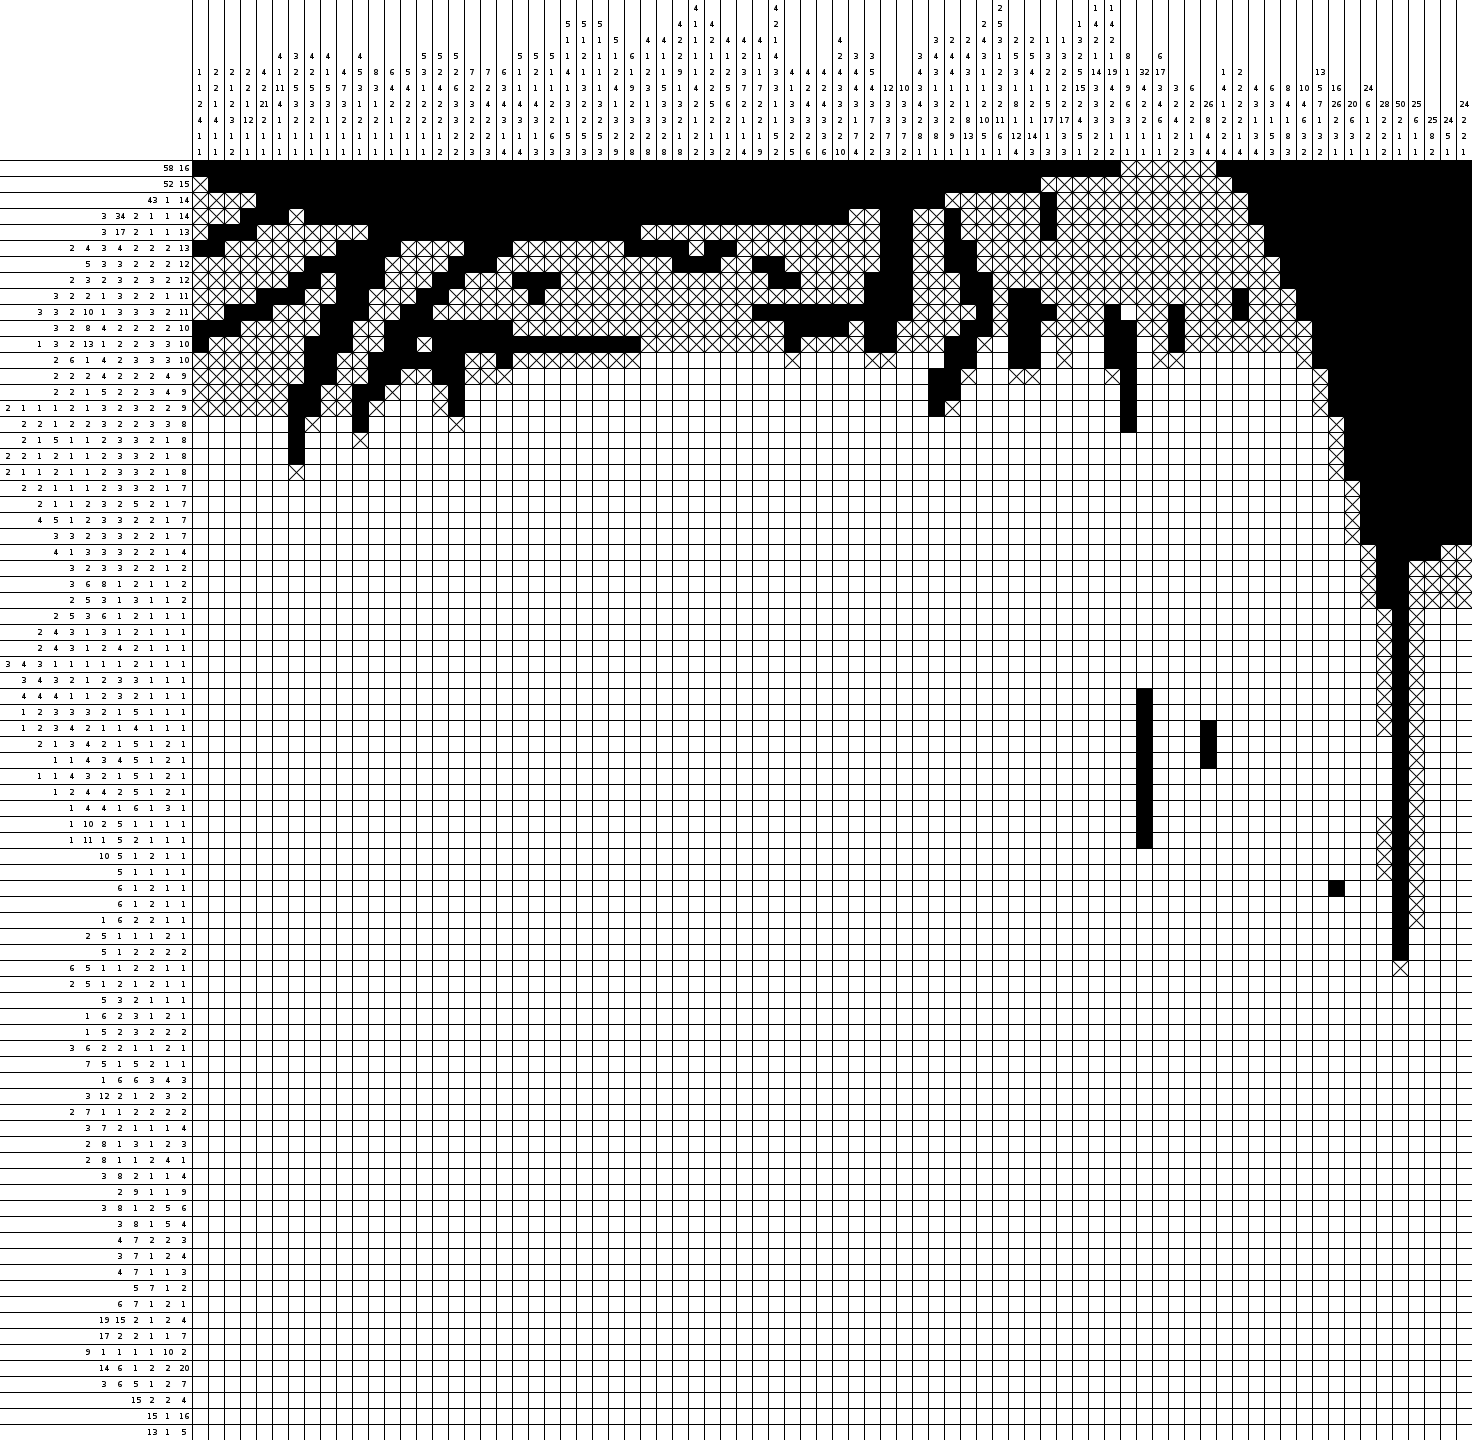
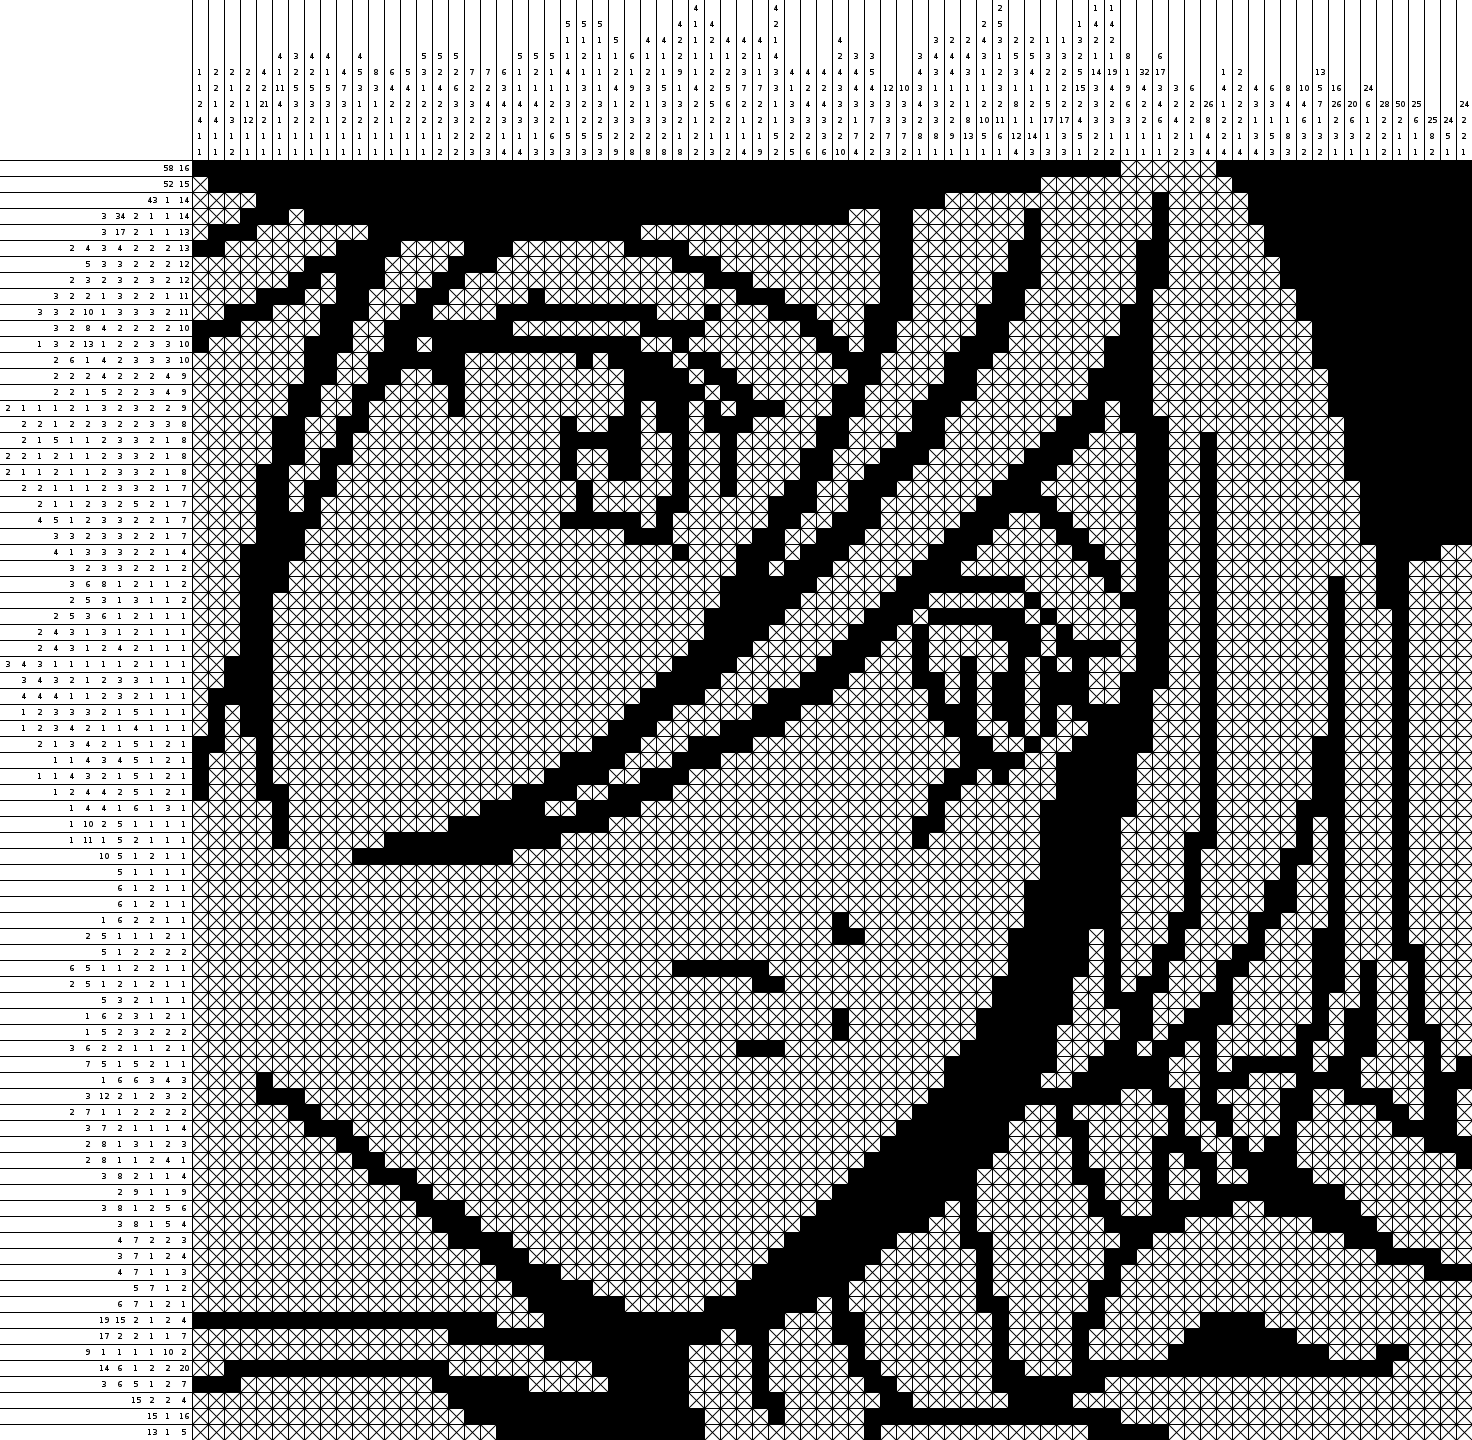
vladilena milize now solved with contradiction method. however, this is very slow

Changed region(s): [[0.125, 0.125, 1.0, 1.0]]

diff --git a/src/main/java/fr/poulpogaz/nonogramssolver/Nonogram.java b/src/main/java/fr/poulpogaz/nonogramssolver/Nonogram.java
@@ -145,20 +145,23 @@ public class Nonogram {
     public boolean solveRecursive() {
         Stack<Guess> guesses = new Stack<>();
 
+        int n = 0;
         LineSolver solver = new DefaultLineSolver();
         while (true) {
             int ret = solveWithLineSolver(solver);
 
             if (ret == NOT_SOLVED) { // new guess
-                Guess g = guess();
-
-                if (g == null) {
-                    return false;
+                n++;
+                System.out.println(n);
+                if (solveContradiction(solver) || n >= 2) {
+                    return true;
                 }
+                Guess g = guess();
 
                 guesses.push(g);
 
             } else if (ret == CONTRADICTION) {
+                System.out.println("Undo guess");
                 while (!guesses.isEmpty()) {
                     Guess g = guesses.peek();
 
@@ -214,40 +217,108 @@ public class Nonogram {
         return SOLVED;
     }
 
+    private boolean solveContradiction(LineSolver solver) {
+        System.out.println("Solving contradiction");
+
+        boolean foundAContradiction;
+        do {
+            foundAContradiction = false;
+
+            for (int y = 0; y < height; y++) {
+                for (int x = 0; x < width; x++) {
+                    int ret = contradictionAt(solver, x, y);
+
+                    if (ret == CONTRADICTION) {
+                        foundAContradiction = true;
+                    } else if (ret == SOLVED) {
+                        return true;
+                    }
+                }
+            }
+
+            if (foundAContradiction) {
+                System.out.println("redo");
+            }
+
+        } while (foundAContradiction);
+
+        return false;
+    }
+
+    private int contradictionAt(LineSolver solver, int x, int y) {
+        Cell[][] copy = getSolution();
+
+        set(Cell.FILLED, x, y);
+
+        int ret = solveWithLineSolver(solver);
+        if (ret == NOT_SOLVED) {
+            set(copy);
+            set(Cell.CROSSED, x, y);
+
+            ret = solveWithLineSolver(solver);
+            if (ret == NOT_SOLVED) {
+                set(copy);
+            } else if (ret == CONTRADICTION) {
+                // something weird is happening
+            }
+
+        } else if (ret == CONTRADICTION) {
+            set(copy);
+            set(Cell.CROSSED, x, y);
+        }
+
+        return ret;
+    }
+
+
+
     private Guess guess() {
+        System.out.println("Guessing");
+        int xFirst = -1;
+        int yFirst = -1;
+
         // bad guessing strategy
         for (int y = 0; y < height; y++) {
             for (int x = 0; x < width; x++) {
                 if (solution[y][x].isEmpty()) {
-                    System.out.printf("Guessing %s at (%d; %d)%n", Cell.FILLED, x, y);
+                    xFirst = x;
+                    yFirst = y;
 
-                    Cell[][] copy = getSolution();
-                    copy[y][x] = Cell.FILLED;
+                    if (filled(x - 1, y) || filled(x + 1, y) || filled(x, y - 1) || filled(x, y + 1)) {
+                        Cell[][] copy = getSolution();
+                        copy[y][x] = Cell.FILLED;
 
-                    solution[y][x].setForce(Cell.FILLED);
-                    solution[y][x].setChanged();
-                    columns[x].setChanged();
-                    rows[y].setChanged();
+                        set(Cell.FILLED, x, y);
 
-                    return new Guess(x, y, copy);
+                        return new Guess(x, y, copy);
+                    }
                 }
             }
         }
 
-        return null;
-        //System.out.println(this);
-        //throw new IllegalStateException("Nonogram solved");
+        if (xFirst < 0) {
+            return null;
+        }
+
+        Cell[][] copy = getSolution();
+        copy[yFirst][xFirst] = Cell.FILLED;
+
+        set(Cell.FILLED, xFirst, yFirst);
+
+        return new Guess(xFirst, yFirst, copy);
+    }
+
+    private boolean filled(int x, int y) {
+        if (x < 0 || y < 0 || x >= width || y >= height) {
+            return false;
+        }
+
+        return solution[y][x].isFilled();
     }
 
     private void undoGuess(Guess guess) {
-        System.out.printf("Undo guess %s at (%d; %d)%n", Cell.FILLED, guess.x(), guess.y());
-
-        for (int y = 0; y < height; y++) {
-            for (int x = 0; x < width; x++) {
-                solution[y][x].setForce(guess.cells()[y][x]);
-                solution[y][x].resetStatus();
-            }
-        }
+        //System.out.printf("Undo guess %s at (%d; %d)%n", Cell.FILLED, guess.x(), guess.y());
+        set(guess.cells());
 
         for (Descriptor row : rows) {
             row.resetStatus();
@@ -263,6 +334,22 @@ public class Nonogram {
         rows[guess.y()].setChanged();
 
         guess.cells()[guess.y()][guess.x()] = Cell.CROSSED;
+    }
+
+    private void set(Cell[][] cells) {
+        for (int y = 0; y < height; y++) {
+            for (int x = 0; x < width; x++) {
+                solution[y][x].setForce(cells[y][x]);
+                solution[y][x].resetStatus();
+            }
+        }
+    }
+
+    private void set(Cell cell, int x, int y) {
+        solution[y][x].setForce(cell);
+        solution[y][x].setChanged();
+        columns[x].setChanged();
+        rows[y].setChanged();
     }
 
     public boolean solve(SolverListener listener) {
@@ -350,6 +437,14 @@ public class Nonogram {
 
     public int getHeight() {
         return height;
+    }
+
+    public Descriptor[] getRows() {
+        return rows;
+    }
+
+    public Descriptor[] getColumns() {
+        return columns;
     }
 
     public BufferedImage asImage(int squareSize) {
